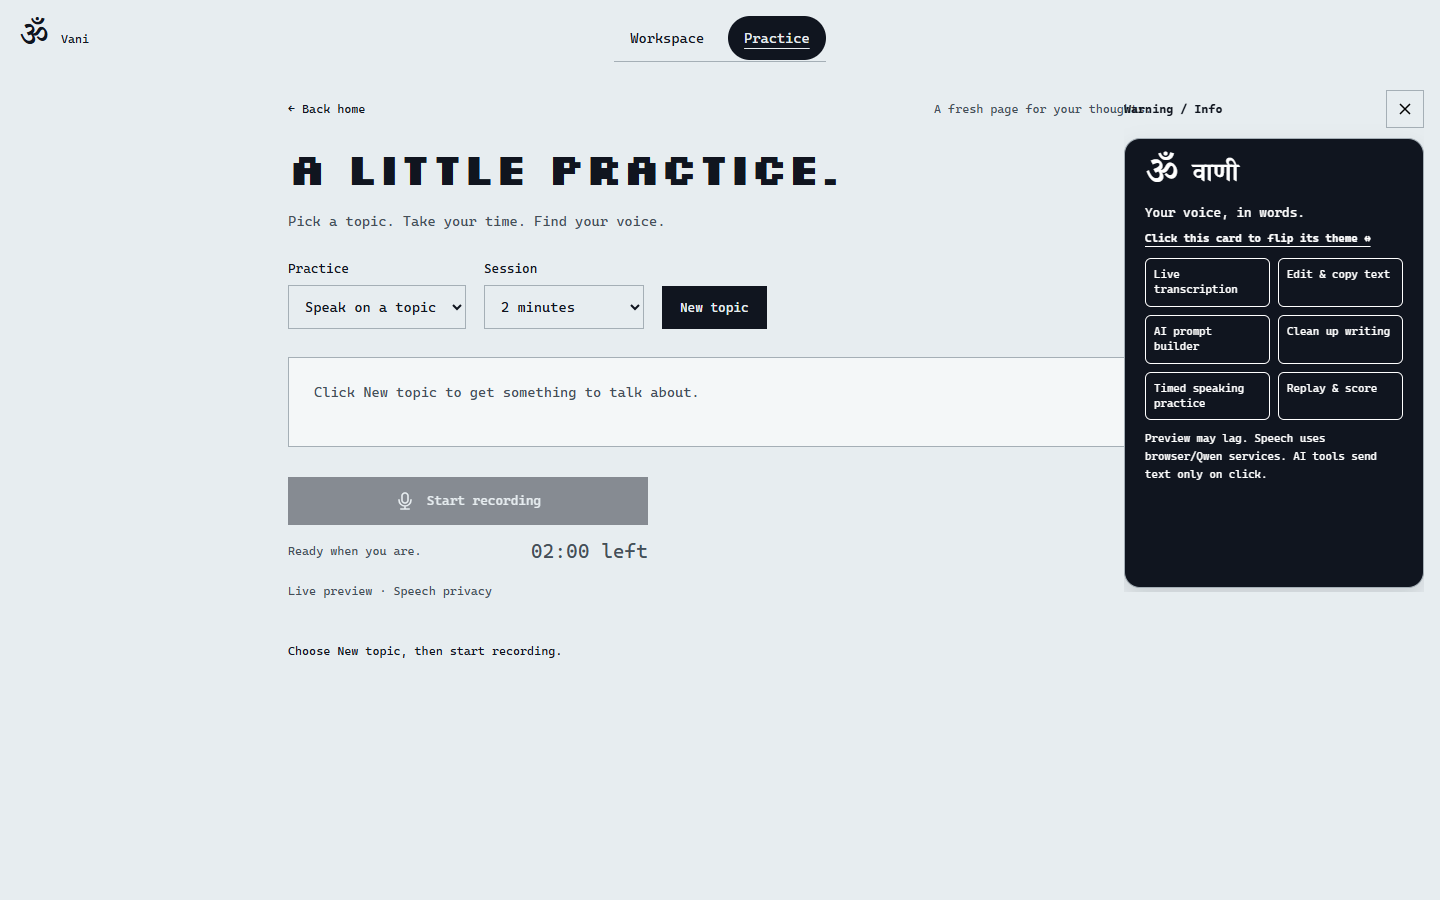
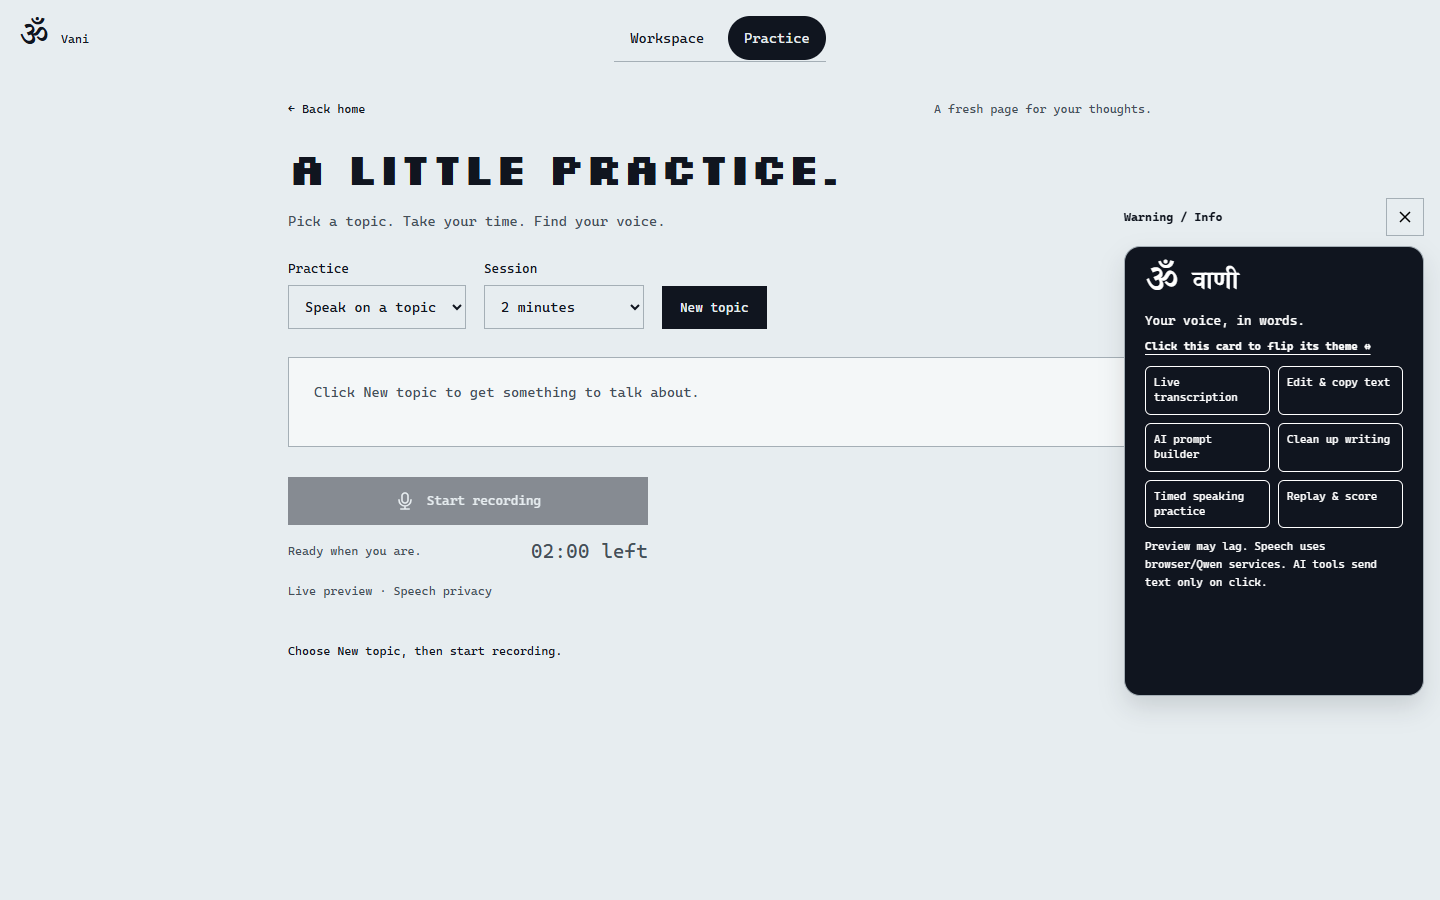
Show room information once per session and lower its placement

Changed region(s): [[0.7812, 0.1556, 1.0, 0.7778], [0.7812, 0.0933, 0.8125, 0.1244]]

diff --git a/static/interface.js b/static/interface.js
@@ -1,7 +1,11 @@
 const $ = (id) => document.getElementById(id);
 const card = $("feature-card"),
   nav = document.querySelector("nav");
-let dismissed = false;
+let automaticShown = false,
+  opened = false;
+try {
+  automaticShown = sessionStorage.getItem("vani-info-seen") === "1";
+} catch {}
 const indicator = document.createElement("span");
 indicator.className = "nav-indicator";
 indicator.setAttribute("aria-hidden", "true");
@@ -18,19 +22,32 @@ let pageName = null,
   revision = 0;
 function render(page) {
   revision++;
-  if (page !== pageName) dismissed = false;
+  const changed = page !== pageName;
   pageName = page;
   position();
   const room = ["dictate", "practice"].includes(page);
   document.body.classList.toggle("is-home", page === "home");
   document.body.classList.remove("has-feature-card");
   $("main").before(card);
-  if (page === "home") $("home-view").append($("card-open"));
-  else card.after($("card-open"));
-  card.hidden = !room || dismissed;
-  $("card-open").hidden = page !== "home" && (!room || !dismissed);
+  card.after($("card-open"));
+  const wasHidden = card.hidden;
+  if (changed) {
+    opened = room && !automaticShown;
+    if (opened) {
+      automaticShown = true;
+      try {
+        sessionStorage.setItem("vani-info-seen", "1");
+      } catch {}
+    }
+  }
+  card.hidden = !room || !opened;
+  $("card-open").hidden = !room || opened;
   $("card-open").setAttribute("aria-expanded", String(!card.hidden));
-  if (!card.hidden && !matchMedia("(prefers-reduced-motion: reduce)").matches)
+  if (
+    wasHidden &&
+    !card.hidden &&
+    !matchMedia("(prefers-reduced-motion: reduce)").matches
+  )
     card.animate(
       [
         { opacity: 0, transform: "translateX(calc(100% + 24px))" },
@@ -53,7 +70,7 @@ $("card-flip").onclick = () => {
     .setAttribute("aria-hidden", String(!flipped));
 };
 $("card-close").onclick = async () => {
-  dismissed = true;
+  opened = false;
   const version = revision;
   const animation = matchMedia("(prefers-reduced-motion: reduce)").matches
     ? null
@@ -70,11 +87,8 @@ $("card-close").onclick = async () => {
   $("card-open").focus();
 };
 $("card-open").onclick = () => {
-  if (pageName === "home") {
-    location.hash = "dictate";
-    return;
-  }
-  dismissed = false;
+  if (!["dictate", "practice"].includes(pageName)) return;
+  opened = true;
   render(pageName);
   $("card-flip").focus();
 };

diff --git a/static/simple.css b/static/simple.css
@@ -698,3 +698,15 @@
 .is-home .motion-toggle {
   bottom: 62px;
 }
+
+.feature-card {
+  --info-top: clamp(160px, 22dvh, 240px);
+  top: var(--info-top);
+  max-height: calc(100dvh - var(--info-top) - 16px);
+}
+.card-flip {
+  height: min(450px, calc(100dvh - var(--info-top) - 64px));
+}
+.is-home .motion-toggle {
+  bottom: 13px;
+}

diff --git a/README.md b/README.md
@@ -70,7 +70,7 @@ Recording automatically starts live text; there is no separate Live checkbox. Mi
 
 This is segmented live preview, not native token-by-token Qwen streaming. A real synthetic English microphone test showed the first Qwen preview before Stop in 7.082 seconds on this machine (docs/live-qwen-evidence.json). This single result is not a speed or multilingual accuracy guarantee. Free shared GPU hosting can queue or exhaust quota, especially with repeated preview calls. Browser speech may use its provider; the Speech privacy link and feature card explain this compactly.
 
-Workspace comes first, followed by Practice, with a moving black navigation indicator. A Vani/penguin feature card appears in both rooms, slides in from the right to a fixed top-right overlay, shows the same features on both faces, flips between black/white themes and stays until closed with X. X dismisses it for the current room; Warning / Info reopens it, and entering the other room shows its card again. The supplied React Bits reference inspired an original vanilla CSS/JS implementation; React and Motion were not added. Language, recording and transcript come first; Turn into a prompt and Clean up text follow the editor and send text to Gemini only on click, retaining the original.
+Workspace comes first, followed by Practice, with a moving black navigation indicator. A Vani/penguin feature card appears in both rooms, slides in from the right to a fixed middle-right overlay, shows the same features on both faces, flips between black/white themes and stays until closed with X. It opens automatically only once per tab session; X closes it and the in-room Info button reopens it manually. Topic generation, recording, navigation and reload do not auto-show it again. The supplied React Bits reference inspired an original vanilla CSS/JS implementation; React and Motion were not added. Language, recording and transcript come first; Turn into a prompt and Clean up text follow the editor and send text to Gemini only on click, retaining the original.
 
 The experimental delivery rubric remains completion 40, recognized pace 30 and quiet-time continuity 30; it is not a certified communication or pronunciation grade. Comparable retries show percentage-point and relative change, not daily progress. Optional AI coaching discusses content and possible wording issues.
 
@@ -80,6 +80,6 @@ Checks: node tests/interface.cjs, node tests/live-fallback.cjs, node tests/featu
 
 ## Current brand and animation
 
-The supplied naming image now informs an Om (ॐ) brand mark in the header, feature card and favicon, rendered using the established Devanagari font. This is a symbol treatment, not a claim of Sanskrit speech recognition. The original pale-blue video palette remains. The landing card is hidden, while Warning / Info remains below Play/Pause and opens Workspace; both faces show features immediately, with a visible flip instruction. No Expand/Shrink controls.
+The supplied naming image now informs an Om (ॐ) brand mark in the header, feature card and favicon, rendered using the established Devanagari font. This is a symbol treatment, not a claim of Sanskrit speech recognition. The original pale-blue video palette remains. The landing card and Warning / Info are both hidden; both faces show features immediately, with a visible flip instruction. No Expand/Shrink controls.
 
 The penguin media retains the supplied animation at 25 fps, with a forward/reverse loop to avoid the abrupt end-to-start cut. Play/Pause has a visible label, changing icon and aria-pressed state synchronized with real media events. Reduced-motion disables autoplay. Browser checks cover both actual pause/time freeze and resumed playback, including a second reduced-motion tab.

diff --git a/docs/playbook-hardening.md b/docs/playbook-hardening.md
@@ -116,3 +116,9 @@ Brand/media UI, matching-face/X/reopen/mobile checks, separate-draft Practice ch
 Landing no longer displays a card. Warning / Info remains below Play/Pause and opens Workspace. Workspace and Practice entry slides the card from the right to a fixed top-right position (90px from top, 16px from right), including mobile. It overlays the page without changing content bounds. X dismisses the current room card; help restores it; changing rooms reveals the card again. Reduced-motion skips sliding. A revision check prevents a stale close animation from hiding a newly entered room's card.
 
 The overlay test confirms hidden landing card, preserved help placement, room entry, exact desktop/mobile positioning, no horizontal overflow and identical workspace bounds before/after dismissal. Card flip/X/reopen, branding/playback/reduced-motion and recording/copy baseline checks pass. Existing recording tests now explicitly dismiss the intentional overlay before working with controls beneath it. No backend, inference or microphone change; no new real ASR/AI request was needed.
+
+## Once-per-session card correction
+
+Landing now hides both feature card and Info. First room entry auto-opens it once per tab session, storing only vani-info-seen=1 in sessionStorage. New topic, recording/cancel, navigation and reload do not automatically reopen it. Manual in-room Info remains. If browser sessionStorage is unavailable, the guard still works in memory for the page lifetime. No transcript, recording or saved-note data is added/deleted. Animation runs only on hidden-to-visible transitions. Placement is lower on the right, below the introductory session-label region; viewport height bounds remain.
+
+Updated browser regression covers first-entry display, no landing controls, no reappearance on topic/record/navigation/reload, manual reopen, desktop header clearance, mobile bounds/no overflow and unchanged workspace geometry. Interface, media/reduced-motion and recording/clipboard baselines pass; no new backend or real inference test was needed. Hugging Face auth check found no configured login, so no Space/domain deployment is claimed. Public upload packages are rebuilt with deployment instructions.

diff --git a/docs/free-deployment.md b/docs/free-deployment.md
@@ -53,3 +53,9 @@ Set GEMINI_API_KEY and GEMINI_MODEL as Space Secrets for coaching/prompt tools. 
 The current frontend automatically requests live previews while recording. Browser speech support and provider connectivity vary; Qwen fallback calls /transcribe for four-second sections. Test this on your own deployed Space: first preview before Stop, final transcript after Stop, audio playback/download, cancellation, Hindi/English, and a logged-out visitor. These additional GPU calls count toward daily quotas and may queue. Neither this guide nor free hardware guarantees instant word-by-word transcription or capacity for 100 concurrent users.
 
 Keep your existing portfolio records unchanged. In Cloudflare Pages first add vani.amritkumar.dev under Custom domains, then create the CNAME vani pointing to the actual generated project.pages.dev hostname. Adding DNS alone without associating the domain in Pages is insufficient. Wait for HTTPS activation, then test the exact domain before sharing it.
+
+## Prepared release and handoff
+
+The latest bundles are D:\Vani\dist\vani-space.zip (extract and upload its six files to the Space root) and D:\Vani\dist\vani-website.zip (upload directly to Cloudflare Pages). The website config points to shubhamsingh123/vani-speech; choose that exact Space name or rebuild with prepare_release.py --space YOUR_ACCOUNT/YOUR_SPACE before uploading. Local static/config.json stays local-only by design; use the generated dist/web copy publicly.
+
+Authenticated Hugging Face access is not configured in this environment. Sign in on the official website yourself; no password/token needs to be sent through chat. In Cloudflare, Workers & Pages > Create application > Get started > Drag and drop your files supports the generated website ZIP. Choose the Free plan, deploy, and copy the actual assigned pages.dev hostname. Then associate vani.amritkumar.dev under Custom domains before creating the new vani CNAME at your DNS provider. Keep the existing portfolio apex/www records. Wait for TLS Active, test recording/transcription and one explicitly requested AI tool, and only then share the domain.

diff --git a/DESIGN.md b/DESIGN.md
@@ -20,3 +20,5 @@ Authority: the user's 1440 × 662, 12.28-second preview video, sampled at one-se
 - Latest layout: Workspace first, dictation/editor before writing tools. Om brand mark from the user's explicit symbol brief, original pale-blue ground, inverse black/white feature-card faces with matching feature tiles. X-only dismissal, Warning / Info restore. Landing features sit below the original hero. A visible labeled Play/Pause tracks actual media state; penguin loop is forward/reverse at the original frame rate.
 
 - Final placement: hide the landing card, retain the help trigger beneath playback. Room cards are fixed top-right overlays on every viewport, with rightward entry/exit and no content reflow or reserved sidebar. New room entry reveals the card; X dismisses it until reopened or changing rooms.
+
+- Current placement supersedes the top-right rule: top clamp(160px,22dvh,240px), right 16px. Landing has no card/help control. Reveal automatically once per tab session; animate only an actual hidden-to-visible transition. Keep manual Info in rooms only.

diff --git a/PRODUCT.md b/PRODUCT.md
@@ -65,3 +65,7 @@ Workspace first, Practice second. Language/recording/transcript precede prompt a
 ## Latest card placement correction
 
 No feature card on the initial landing page. Keep Warning / Info below Play/Pause; it leads into Workspace and shows the card. On entering either Workspace or Practice, slide the card from the right into a fixed top-right overlay, including on mobile. Do not move, shrink or push down the workspace. X dismisses the current room card, Warning / Info reopens it, and entering the other room shows its card again.
+
+## Final once-per-session correction
+
+Remove both card and Warning / Info from landing. On first entry into either room, show the card once per tab session using only a sessionStorage boolean. No repeated automatic display after topic generation, recording, route changes or reload. Manual in-room Info can reopen it. Place the card below the top introductory text, toward middle-right, without changing workspace bounds.
